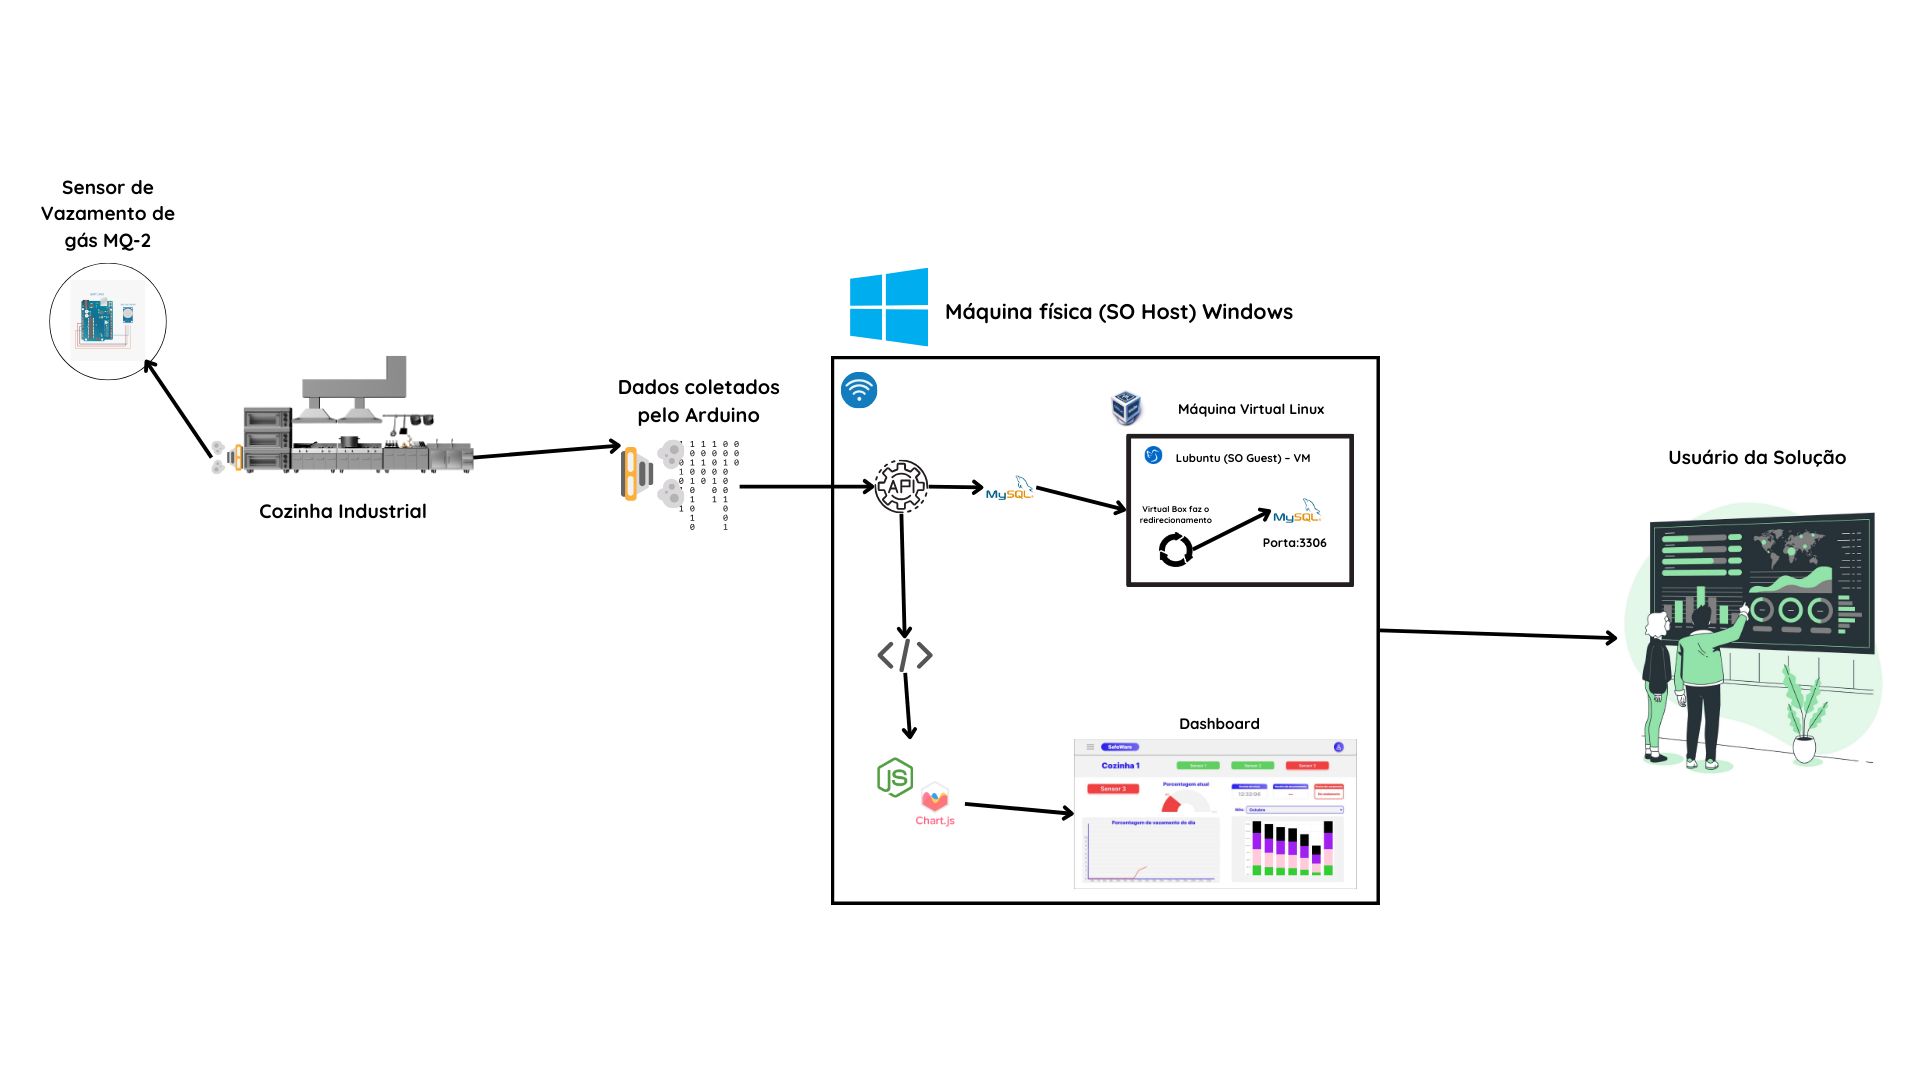
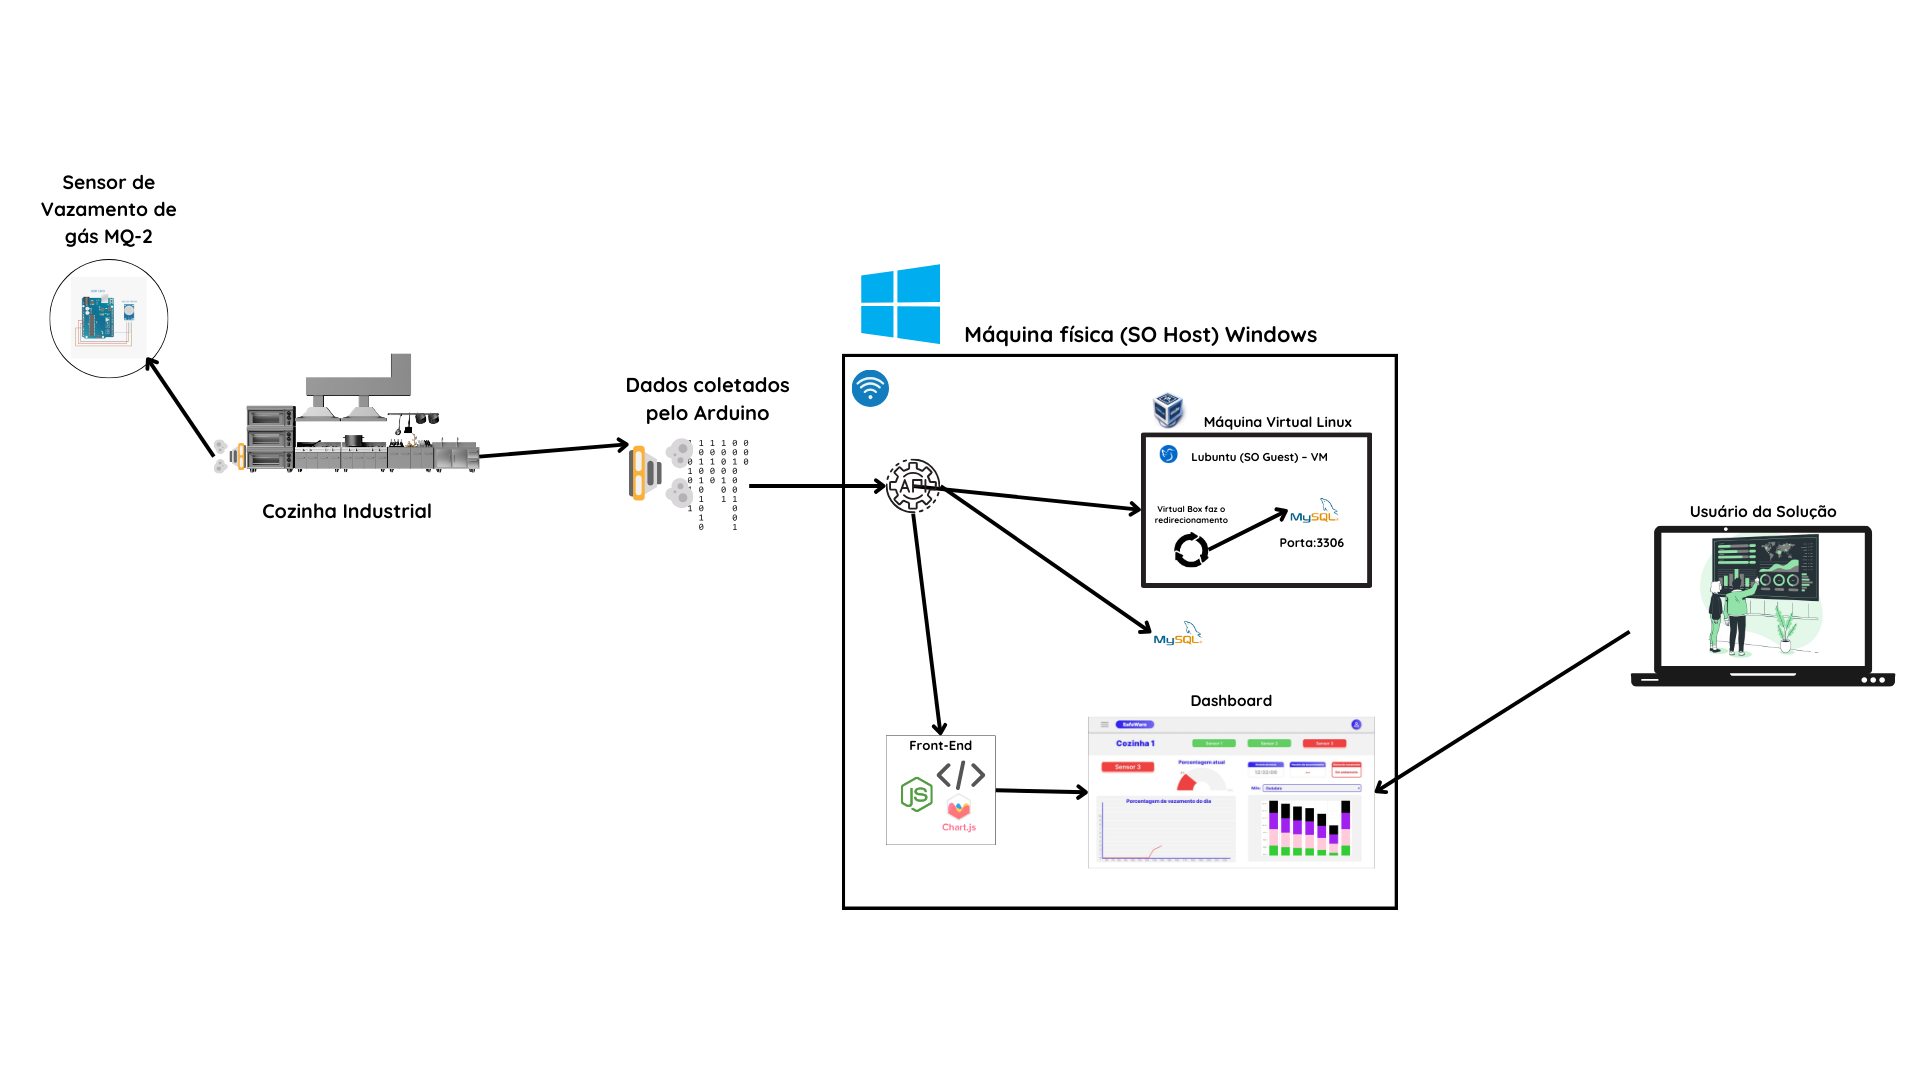
Atuaizei o diagrama de solução, validado na aula de SO

diff --git a/Codigo/site/cadastro.html b/Codigo/site/cadastro.html
@@ -229,6 +229,7 @@
     }
 
     function validarCadastro() {
+        // correto = true
         validarRazao()
         validarFantasia()
         validarCNPJ()
@@ -236,7 +237,6 @@
         validarEmail()
         validarSenha()
         validarConfirmacao()
-        correto = true
 
         if (correto == true) {
             window.location.replace("../../../dat-acqu-ino/index.html");
